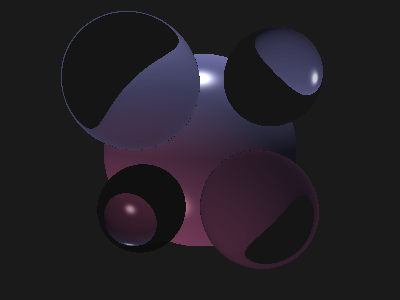
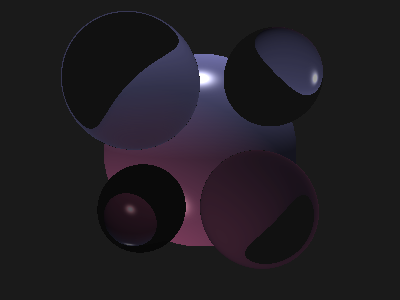
Update

diff --git a/scene.py b/scene.py
@@ -89,10 +89,11 @@ class Scene:
 
         # relected color
         reflected_color = Color.BLACK
+        reflected_ray = Ray(point, h)
         if ref > 0:
             miss_color = self.background if mat.reflect_bg else local_color
             reflected_color = self.trace(
-                Ray(point, h), depth - 1, exclude=obj, miss_color=miss_color)
+                reflected_ray, depth - 1, exclude=obj, miss_color=miss_color)
 
         # transmitted color
         refracted_color = Color.BLACK
@@ -102,13 +103,7 @@ class Scene:
             refracted_d = ray.d.refract(n, mat.ior)
             if refracted_d is not None:
                 refracted_ray = Ray(point + refracted_d * epsilon, refracted_d)
-                # refract out of object
-                out_intersection = obj.intersection(refracted_ray)
-                point = out_intersection['point']
-                n = obj.normal(point)
-                refracted_d = refracted_ray.d.refract(n, mat.ior)
-                refracted_ray = Ray(point + refracted_d * epsilon, refracted_d)
-                refracted_color = self.trace(refracted_ray, depth - 1, exclude=obj)
+                refracted_color = self.trace(refracted_ray, depth - 1)
 
         return reflected_color * ref\
             + refracted_color * trans\

diff --git a/vector.py b/vector.py
@@ -54,16 +54,15 @@ class Vector:
         c1 = n * i
         if c1 < 0:  # ray is going from air to denser material
             c1 = -c1
-            # since we are reverse tracing, this represents the ray coming out
-            #   of the denser object, which issubject to total internal
-            #   reflection
-            if ior * math.sqrt(max([0, 1 - c1 * c1])) > 1:
-                return None  # total internal reflection
         else:
             n = -n
             eta = ior / 1
 
-        c2 = math.sqrt(1 - eta * eta  * (1 - c1 * c1))
+        k = 1 - eta * eta * (1 - c1 * c1)
+        if k < 0:  # total internal reflection
+            return None
+
+        c2 = math.sqrt(k)
         t = eta * (i  + c1 * n) - n * c2
         return t.normalize()
 
